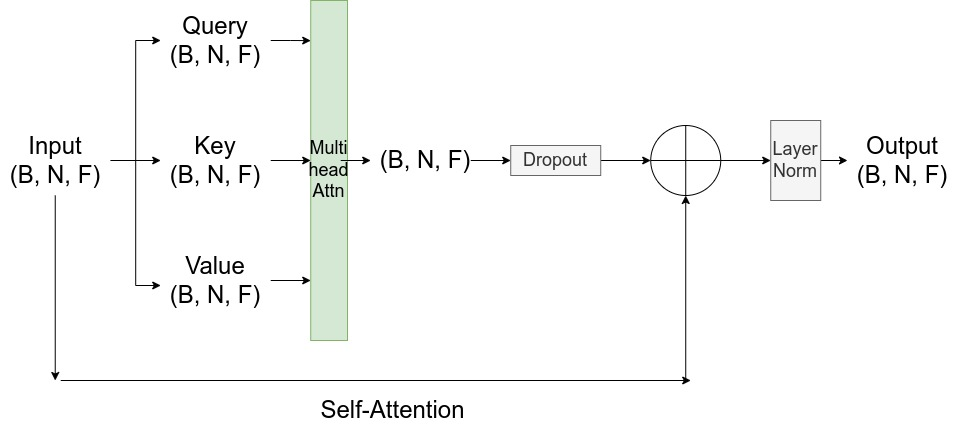
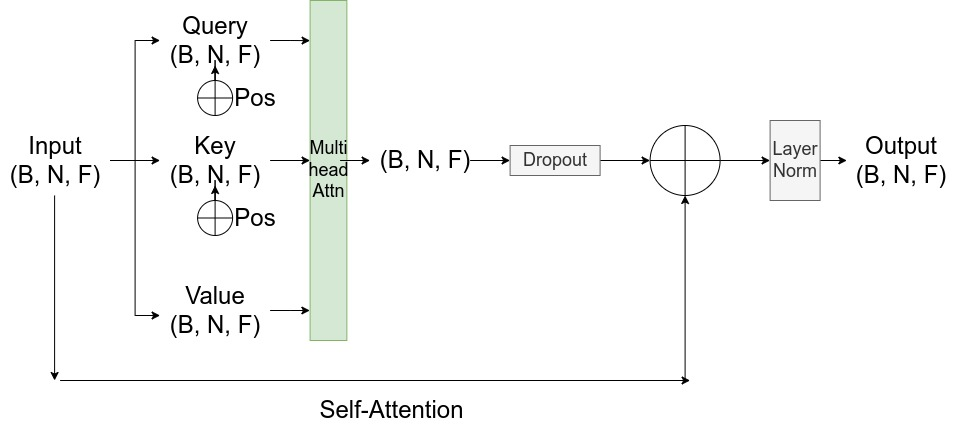
Revised to address (hopefully) all students' questions for F22

diff --git a/main.py b/main.py
@@ -1,4 +1,5 @@
 """Base experiment runner class for VQA experiments."""
+
 import argparse
 import os
 
@@ -88,6 +89,7 @@ class Trainer:
 
     def train_test_loop(self, mode='train', epoch=1000):
         n_correct, n_samples = 0, 0
+        # add code to collect all your answers
         for step, data in tqdm(enumerate(self.data_loaders[mode])):
 
             # Forward pass
@@ -126,7 +128,7 @@ class Trainer:
                 'Loss/' + mode, loss.item(),
                 epoch * len(self.data_loaders[mode]) + step
             )
-            if mode == 'val' and step == 0:  # change this to show other images
+            if mode == 'val' and step == 9:  # change this to show other images
                 _n_show = 3  # how many images to plot
                 for i in range(_n_show):
                     self.writer.add_image(
@@ -136,9 +138,15 @@ class Trainer:
                     # add code to show the question
                     # the gt answer
                     # and the predicted answer
+                    # this is for debugging, to qualitatively monitor training
             # add code to plot the current accuracy
         acc = n_correct / n_samples
         print(acc)
+        # once training is complete and only for the validation set
+        # show a bar plot of the answers' frequency sorted in descending order
+        # you don't need to show names for the above
+        # also print (or plot if you prefer) the 10 most frequent anwers
+        # we want names here
         return acc
 
 
@@ -211,3 +219,4 @@ def main():
 if __name__ == "__main__":
     os.environ["TOKENIZERS_PARALLELISM"] = "false"
     main()
+

diff --git a/models.py b/models.py
@@ -154,7 +154,7 @@ class CrossAttentionLayer(nn.Module):
         self.dropout_2 = TODO
         self.norm_2 = TODO
 
-        # Cross attention from seq1 to seq2
+        # Cross attention from seq1 to seq2 (seq1 forms queries)
         self.cross_12 = TODO
         self.dropout_12 = TODO
         self.norm_12 = TODO
@@ -163,7 +163,7 @@ class CrossAttentionLayer(nn.Module):
         self.ffn_12 = nn.Sequential(TODO)  # hidden dim is 1024
         self.norm_122 = TODO
 
-        # Cross attention from seq2 to seq1
+        # Cross attention from seq2 to seq1 (seq2 forms queries)
         self.cross_21 = TODO
         self.dropout_21 = TODO
         self.norm_21 = TODO
@@ -207,10 +207,10 @@ class CrossAttentionLayer(nn.Module):
             q2 = q2 + seq2_pos
             k2 = k2 + seq2_pos
 
-        # Cross-attention from seq1 to seq2 and FFN
+        # Cross-attention from seq1 to seq2 (seq1 forms queries) and FFN
         TODO
 
-        # Cross-attention from seq2 to seq1 and FFN
+        # Cross-attention from seq2 to seq1 (seq2 forms queries) and FFN
         TODO
 
         return seq1, seq2
@@ -252,3 +252,4 @@ class PositionEmbeddingSine(nn.Module):
         ).flatten(3)
         pos = torch.cat((pos_y, pos_x), dim=3).permute(0, 3, 1, 2)
         return pos
+

diff --git a/vqa_dataset.py b/vqa_dataset.py
@@ -100,16 +100,16 @@ class VQADataset(Dataset):
         std_ = [0.229, 0.224, 0.225]
         preprocessing = transforms.Compose([
             transforms.Pad((0, 0, max_wh - width, max_wh - height)),
-            transforms.Resize((self.size, self.size)),
-            transforms.ToTensor(),
-            transforms.Normalize(mean_, std_)
+            TODO,  # resize to self.size
+            TODO,  # convert to tensor
+            TODO  # normalize with mean_ and std_
         ])
         img = preprocessing(_img)
-        orig_prep = transforms.Compose([
+        orig_prep = transforms.Compose([  # do not normalize!
             transforms.Pad((0, 0, max_wh - width, max_wh - height)),
-            transforms.Resize((self.size, self.size)),
-            transforms.ToTensor()
-        ])
+            TODO,  # resize to self.size
+            TODO  # convert to tensor
+        ])  # this is for visualizations only
         orig_img = orig_prep(_img)
 
         # Encode answer to tensor
@@ -132,3 +132,4 @@ class VQADataset(Dataset):
             'answers': a_tensor,
             'orig_img': orig_img
         }
+

diff --git a/README.md b/README.md
@@ -2,12 +2,12 @@
 
 - [Visual Learning and Recognition (16-824) Fall 2022](https://visual-learning.cs.cmu.edu/index.html)
 - TAs: [Nikos Gkanatsios](https://nickgkan.github.io/) and [Sai Shruthi Balaji](https://www.linkedin.com/in/sai-shruthi-balaji/).
-- Please post questions, if any, on Piazza for HW3.
+- Please post any questions on Piazza under the respective thread for HW3.
 - Total points: 100 + 30 (bonus)
 - Due Date: Nov 16, 2022 at 11:59pm EST.
 - Enjoy!
 
-While in the previous assignments we focused on image understanding (through object localization and generation), in this assignment we combine image and text understanding. Specifically, we address the task of Visual Question Answering (VQA) [1]: given an image and a question about it, our goal is to provide an answer to this question. While open-ended question answering would demand text generation, VQA is traditionally tackled as a classification problem; we select the answer out of a (large) pool of possible answers.
+While in the previous assignments we focused on image understanding (through object localization and generation), in this assignment we combine image and text understanding. Specifically, we address the task of Visual Question Answering (VQA): given an image and a question about it, our goal is to provide an answer to this question. While open-ended question answering would demand text generation, VQA is traditionally tackled as a classification problem; we select the answer out of a (large) pool of possible answers.
 
 ![teaser](git_images/teaser.png)
 
@@ -23,16 +23,18 @@ We provide you with a clean VQA Python API that i) works with Python 3, ii) has 
 
 ### Download dataset
 
-Download the train and validation data: https://visualqa.org/vqa_v1_download.html (we only need 'Real Images', not 'Abstract Scenes'). We're using VQA v1.0 Open-Ended. You need the annotations, the questions and the images for both the training and validation sets.
-
 Run ```DATA_PATH=path/to/your/data/folder/ ./download_data.sh``` to download and unzip everything.
 
+The above command downloads the train and validation data from https://visualqa.org/vqa_v1_download.html (we only need 'Real Images', not 'Abstract Scenes'). We're using VQA v1.0 Open-Ended. If for any reason the above script does not work for you, download the data directly from the website. We need the annotations, the questions and the images for both the training and validation sets (see what the script is trying to download for details).
 
 
-## Task 1: Understanding VQA (20 points)
-VQA is often addressed as a classification problem, where we map image-question pairs to a pool of predefined answers.
+
+## Task 1: Understanding VQA (4*5 points)
+VQA is often addressed as a classification problem where we map image-question pairs to a pool of predefined answers.
 
 To create this pool of answers, a naive way is to collect all different answer strings of the training set and treat them as separate class. However, this creates a very long tail of classes and only makes the problem harder and the inference slower computationally. To account for this, we sort the answer by frequency and keep the 5216 most frequent ones (5216 is a hyperparameter used by the first VQA papers). To ensure fair pre-processing and filtering, we have included the code that sorts the answers and creates the answer-to-class map. We also include a 5217th class that corresponds to 'other'. All rare answers are mapped to 'other'. This makes VQA a 5217-way classification problem.
+
+Note that the answers are phrases, not necessarily single words. For example a valid answer can be 'riding a bike'.
 
 Based on the above description:
 
@@ -42,14 +44,14 @@ Based on the above description:
 
 **1.3 Implement the `__len__` method of the `VQADataset` class. Should the size of the dataset be equal to the number of images, questions or the answers?**
 
-**1.4 Complete the `__getitem__` method. You need to (1) figure out what is the `idx`-th item of the dataset; (2) load the question string.**
-To make sure that your results are comparable to the TAs' (and your peers') implementation, we have included the image preprocessing function. The `__getitem__` method returns the question and list of answers, the preprocessed (normalized) image as well as the original image for visualization purposes.
+**1.4 Complete the `__getitem__` method. You need to (1) figure out what is the `idx`-th item of the dataset; (2) load the question string; (3) fill the image preprocessing part.**
+To make sure that your results are comparable to the TAs' (and your peers') implementation, we have included the structure for the image preprocessing (follow the comments!). The `__getitem__` method returns the question and list of answers, the preprocessed (normalized) image, as well as the original image for visualization purposes.
 
-Additionally, the VQA dataset contains 10 answers per question. These are usually synonyms/paraphrases (or 'other', if they're very rare). Our dataset class considers all of them and returns a binary vector indicating the validity of each answer (field `answers`).
+Additionally, the VQA dataset contains 10 answers per question. These are usually synonyms/paraphrases (or 'other', if they're very rare). Our dataset class considers all of them and returns a binary vector indicating the validity of each answer (field `answers`). This means that ```item['answers']``` is a binary vector of length 5217.
 
 
 
-## Task 2: Building a pipeline for VQA (50 points)
+## Task 2: Building a pipeline for VQA (8*5 + 10 points)
 To build a learning pipeline we need i) a dataset class (we have already built it!), ii) a model that absorbs the data and returns some predictions, iii) a training pipeline that optimizes these predictions and iv) metrics that evaluate the predictions.
 
 ### Model
@@ -73,22 +75,22 @@ We provide skeleton code in `main.py`. We use Adam optimizer, although you can e
 ### Evaluation
 The prediction is considered accurate if the most confident answer is correct, i.e. if it is one of the multiple correct answers. We provide the code to compute accuracy.
 
-**2.6 Complete the `train_test_loop` method to monitor the performance in Tensorboard. Plot the loss and accuracy and include these in your report. Additionally show multiple image-question pairs (at least 3) with the respective answers (predicted and ground-truth).** For the image-question pairs, just show results from your best model, not at intermediate epochs. If an image-question pair has more than one ground-truth answers, randomly select one to show.
+**2.6 Complete the `train_test_loop` method to monitor the performance in Tensorboard. Plot the loss and accuracy and include these in your report. Additionally show multiple image-question pairs (at least 3 successful and 3 failure cases) with the respective answers (predicted and ground-truth).** For the accuracy, you can either plot it after every step or every epoch. For the image-question pairs, just show results from your best model, not at intermediate epochs. If an image-question pair has more than one ground-truth answers, randomly select one to show. The image-question pair visualizations don't have to be on Tensorboard, you can use any visualization tool you want.
 
 Now, we are ready to train/test the model! Aim for a validation accuracy of 50%, but anything above 45% is fine. For reference, the TAs were able to get 52% accuracy with the defaults hyperparameters in 10 epochs. You're free to use different hyperparameters but not to change the architecture at this point.
 
 ### Analysis
-We want to get an idea of why our performance is so low. You may already have an idea actually from what you visualized.
+We want to get an idea of why our performance is so low. You may already have an idea actually from what you visualized. Once you have trained your model, do the following on the validation set:
 
-**2.7 Make a histogram of the frequencies of the predicted answers (all 5217) without labels.** Specifically, gather all the predicted answers of your model through the whole dataset. For each sample, keep only the argmax (most confident) prediction. Then compute the frequency of each predicted answer, sort in decreasing order of frequency and plot the histogram. You can use matplotlib to do this. For reference, the TAs used `pyplot.bar`.
+**2.7 Make a bar plot of the frequencies of the predicted answers (all 5217) without labels.** Specifically, gather all the predicted answers of your model through the whole validation set. For each sample, keep only the argmax (most confident) prediction. Then compute the frequency of each predicted answer, sort in decreasing order of frequency and plot the histogram. You can use matplotlib to do this. For reference, the TAs used `pyplot.bar`.
 
 **2.8 What are the 10 most frequently predicted classes? Why do you think this happens? You can optionally visualize the frequency of ground-truth answers in the training set.**
 
-Take-away message: when your network is not expressive enough to capture the causal factors of your data, it will try to capture the output distribution. Representing the true data distribution rather than the label one is an important and open problem in Machine Learning!
+Take-away message: when your network is not expressive enough to capture the causal factors of your data, it will try to capture the output distribution. Representing the true data distribution rather than the label distribution is an important and open problem in Machine Learning!
 
 
 
-## Task 3: Transformer Network (30 points)
+## Task 3: Transformer Network (3*10 points)
 The baseline model has obvious limitations: it condenses the whole image (question) into an 1-d vector and there's no interaction between the visual and textual features. We are now going to enhance this model with attention layers, using Transformers.
 
 Here is the model we are going to implement:
@@ -98,7 +100,7 @@ Here is the model we are going to implement:
 After encoding each modality separately and projecting them to have the same feature dimension, we apply three cross-encoding layers.
 The refined visual/text features are then mean pooled, concatenated and fed to a linear layer that predict confidence scores over the possible answers. This pipeline is already implemented in `models.py` as `TransformerNet`. However, the cross-encoder layer is not implemented.
 
-A high-level diagram of the cross-encoder layer can be seen here:
+In the following, B is the batch size, N the sequence length (e.g. number of visual or language tokens) and F the feature dimension. Make sure that your model supports any batch size. A high-level diagram of the cross-encoder layer can be seen here:
 
 ![ce](git_images/cross_encoder.jpg)
 
@@ -120,37 +122,42 @@ Lastly, the feed-fordard network is just an MLP (see code for exact dimensions):
 
 Keep in mind that the input to and the output of a cross-encoder layer have identical shape.
 
-For the visual stream we also use positional embeddings to denote the position of each patch. This is a generalization of the embeddings introduced in "Attention is all you Need" for images. We have implemented this part for you, so you don't need to (and should not) alter it.
+For the visual stream we also use positional embeddings to denote the position of each patch. This is a generalization of the embeddings introduced in "Attention is all you Need" for images. We have implemented this part for you, so you don't need to (and should not) alter it. The positional embeddings are only added on top of the queries and keys. This is because we want the attention scores to be position-aware, but we do not want to "pollute" the semantic features (values) with positional information.
 
 Once you implement the TODOs, [download](https://drive.google.com/file/d/1NOfqxcde2TXwVDVJ3sp-QwKkZ2S_2oTE/view?usp=sharing) the trained weights (by TAs) and run ```python main.py --model transformer --eval```. You should get an accuracy of 67.62%. To download the weights you need to use your CMU account.
 
-**3.1 Complete the `CrossAttentionLayer`.** Include a screenshot of the `forward` method in your report.
+**3.1 Complete the `CrossAttentionLayer`.**
 
-Hints: do not change any layer's name. The current `__init__` method contains the names of all layers that you will need. We've implemented one of the self-attention layers for reference. Build the others based on that and the comments. `nn.MultiheadAttention` directly implements multi-head attention. Make sure to initialize it and call it with appropriate arguments. This is a common source of bugs.
+Hints: do not change any layer's name. The current `__init__` method contains the names of all layers that you will need. We've implemented one of the self-attention layers for reference. Build the others based on that and the comments. `nn.MultiheadAttention` directly implements multi-head attention. Make sure to initialize it and call it with appropriate arguments. This is a common source of bugs. Remember: i) the key_padding_mask is for **keys** as its name says and you need to use it, ii) you need to use exactly the weights we have initialized (all of them). Refer to the figures above to structure the `forward` method.
 
-**3.2 Load the trained weights and reproduce our result.** This will be tested via an automated Gradescope grader that will try to reproduce our result using your model class.
+**3.2 Load the trained weights and evaluate to reproduce our result (67.62%).** This will be tested via an automated Gradescope grader that will try to reproduce our result using your model class. For that test submit only `models.py`. Hints: If you follow all the instructions and figures, get a number close to 67.62% (but not exactly) and fail to pass the autograder, there are high chances that it is a typo. Once you pass the test, if you cannot reproduce the 67.62% accuracy then there is an issue in your data loader.
 
-**3.3 How does the histogram of answers look now?**
+**3.3 How does the bar plot of answers (on the validation set) look now?** Compare to question 2.7.
 
 Take-away message: the success of a representation model highly depends on the distributional properties of the data and the labels. A non-expressive model learns the biases of the frequent classes. An expressive model can learn more accurate classifiers for the frequent classes but is still biased towards them. In such cases, more careful loss design is required.
 
 
 
-## Task 4: Bells and Whistles  (30 bonus points)
+## Task 4: Bells and Whistles  (max 30 bonus points)
 
-**4.1 Is it a matter of capacity? In the `BaselineNet` replace the linear classifier with a deeper MLP. Report the accuracy plot of this model.**
+**4.1 Is it a matter of capacity?** Maybe our baseline is weak because we only train one linear layer. In the `BaselineNet` class replace the linear classifier with a deeper MLP. Report the accuracy plot of this model as well as the bar of answer frequencies. Did this resolve/mitigate the issues `BaselineNet` suffers from? Did this reduce the gap of performance between `BaselineNet` and `TransformerNet`? Whether the answer is yer or no, try to explain why this happens.
 
-**4.2 Is it a matter of context? Featurize the image with ResNet18 and pool an 1-d representation. Then use this vector to condition (provide it as initial hidden state) an LSTM that reads the language word-by-word. Gather the hidden representations of this LSTM and classify the answer.**
+**4.2 Is it a matter of context?** Maybe we can capture context between the image and the question in a different way, other than using Transformers. Featurize the image with ResNet18 and pool an 1-d representation. Then use this vector to condition (provide it as initial hidden state to) an LSTM that reads the language word-by-word. Gather the hidden representations of this LSTM and classify the answer. This is inspired by older attention papers, such as "Show, Attend Tell".
 
-**4.3 Better than 67.62? Try to improve the Transformer-based model. Some ideas include adding more encoder layers or (partially) unfreezing the backbones' weights. Note that this can take significant amount of GPU time.**
+**4.3 Better than 67.62?** Try to improve the Transformer-based model. Some ideas include adding more encoder layers or (partially) unfreezing the backbones' weights. You can always initialize with the weights we provide and then train the new weights (fine-tune or end-to-end). You are allowed to change any hyperparameter/design choices you want. Note that this can take significant amount of GPU time.
 
-**4.4 Propose and implement any other idea you have!** This does not have to include implementing/training a new model. It can be an interesting analysis or a better loss.
+**4.4 Propose and/or implement any other idea you have!** This does not have to include implementing/training a new model. It can be an interesting analysis or a better loss. We want to see your innovative self shining here!
 
 
-## Relevant papers:
-[1] VQA: Visual Question Answering (Agrawal et al, 2016): https://arxiv.org/pdf/1505.00468v6.pdf
+## Useful reading:
+[Attention is All you Need](https://arxiv.org/pdf/1706.03762.pdf): or, understanding this paper is all you need for this assignment.
 
-[2] Making the V in VQA Matter: Elevating the Role of Image Understanding in Visual Question Answering (Goyal, Khot et al, 2017):  https://arxiv.org/pdf/1612.00837.pdf
+## Other related readings:
+[1] [VQA](https://arxiv.org/pdf/1505.00468v6.pdf): introduced the dataset we are using. The way they approach the task is different than ours. They train a softmax classifier, we optimize for multiple correct answers. Only useful if you want to get some insight on how the dataset/task was conceived.
+
+[2] [Making the V in VQA Matter](https://arxiv.org/pdf/1612.00837.pdf): some thoughts on the biased distribution of answers.
+
+[3] [ViLBERT](https://arxiv.org/pdf/1908.02265.pdf): introduced the cross-attention. Stick to the instructions above for the implementation but you can refer to this paper for the idea/explanation. Note that we use the cross-attention layer but do not follow their overall architecture, hence the different results.
 
 
 
@@ -161,5 +168,6 @@ Briefly describe what you did and anything that you found particularly interesti
 
 ### Grading
 
-Each question in tasks 1 and 2 counts for 5 points. You get the 10 remaining points for task 2 if you achieve the expected performance. Each question in task 3 is worth 10 points. You can get up to 15 points for each bonus question, but only up to 30 bonus points in total.
+Each question in tasks 1 and 2 counts for 5 points. You get the 10 remaining points for task 2 if you achieve the expected performance. Each question in task 3 is worth 10 points. If you pass the autograder test you get the 20 points for 3.1 and 3.2 automatically. You can get up to 15 points for each bonus question, but only up to 30 bonus points in total.
+
 
